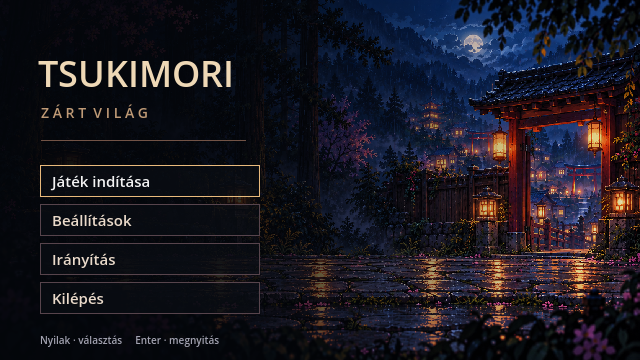
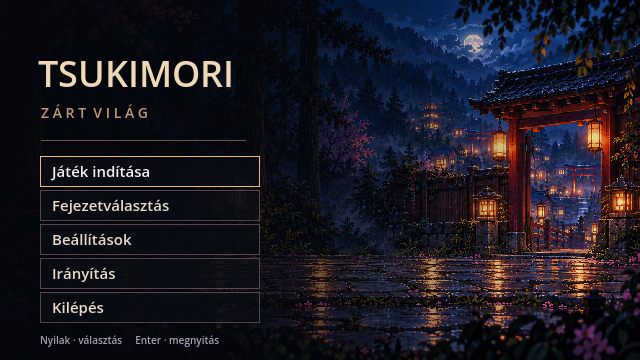
Add main-menu chapter selection for implemented review checkpoints

Changed region(s): [[0.0625, 0.4278, 0.4062, 0.9167], [0.375, 0.8556, 0.4062, 0.9167], [0.375, 0.4278, 0.4062, 0.4583]]

diff --git a/docs/CHAPTER_SELECT_REVIEW.md b/docs/CHAPTER_SELECT_REVIEW.md
@@ -1,0 +1,24 @@
+# Fejezetválasztás — 2026-10-04, REVIEW
+
+Tulajdonosi kérés: a további történeti fejlesztés előtt a tesztelést megkönnyítő fejezetválasztó a játék elején. Főmenü → Fejezetválasztás. Egér vagy fel/le + Enter; Esc/Vissza bezárja, a fókusz visszatér a főmenügombra. Megnyitás és bezárás nem változtatja a játékállapotot.
+
+## Belépési pontok
+
+| Rész | Indulás | Előzmény |
+| --- | --- | --- |
+| Nyitány | Fekete + eső, eredeti monológ | Tiszta új játék |
+| Falusi séta | Kapu, aktív játékoskontroll | opening_intro_seen, entered_tsukimori |
+| I. Miyako | Első személyes köszöntés a háznál | Hídon átkelés; met_miyako még nincs |
+| II. Első éjszaka | Akira VN-szobája, esti beszélgetés | Miyako külső/belső találkozás lezárva |
+| III. Első rendelési nap | Eredeti közös reggel és döntések | Első éjszaka lezárva, konzultációk még nincsenek |
+| IV. Hana | Éjszakai visszatolt füzet → reggeli előkészítés → Hana | Első nap lezárva; Hana személyes megismerése még nincs |
+
+Csak már megvalósított részek választhatók. Ez tesztbelépés, nem mentésbetöltés vagy route/unlock rendszer. A kiválasztott rész új állapotból indul. Előző döntések az eredeti, nulla pontot adó alternatívákat kapják: Miyako első kérdés/ask; reggel withdraw; rendelési hozzáállás clinical. Nincs önkényes kapcsolatpont vagy jövőbeli karakterismeret. Az aktuális fejezet döntései továbbra is a játékosra várnak. A karakterlap a beállított előzményeket mutatja; ez tesztelőzmény, nem valódi végigjátszás mentése.
+
+## Technika és ellenőrzés
+
+scripts/ui/chapter_catalog.gd tartalmazza a belépési pontokat, érvényességi ellenőrzést, előzményflaget és scene-indítást. GameState.chapter_start egyszeri kérés, a tényleges scene _ready elfogyasztja. Az új Játék indítása ugyanúgy tiszta nyitányt indít. Az intró kihagyása a közös, egyszeri handoff úton fut. Kettős indítás és az átmenet alatti visszalépés nem cseréli le a választást. Nincs új asset vagy LOCKED redesign.
+
+chapter_select_regression: mind a hat pont a valódi főmenüből, Enterrel és nyilakkal; visszalépés/fókusz; korábbi tesztállapot törlése; egyszeri kérés; megfelelő fázis/flag; első mondat megmaradása; szünet; ismeretlen fejezet elutasítása. main_menu_regression: eredeti normál új játék, beállítások és intró kihagyás. night_day_regression és hana_day_regression: normál történeti útvonalak és eredeti választások változatlanok.
+
+Képi review: review/chapter_selector_REVIEW.png, chapter_miyako_REVIEW.png, chapter_night_REVIEW.png, chapter_clinic_REVIEW.png, chapter_hana_REVIEW.png. Következő történeti blokk továbbra is Hana találkozása után a megírt késő délutáni Miyako-jelenet.

diff --git a/docs/DECISION_LOG.md b/docs/DECISION_LOG.md
@@ -100,6 +100,8 @@ Ha implementáció ütközik egy LOCKED döntéssel:
 Tulajdonosi kérésre a régi 3D prototípus az archive/legacy_3d alá került, az assetek és importbeállítások megőrzésével. A kreatív kánon és a pixel-art production irány változatlan. Az aktív játékból eltávolítottuk a használaton kívüli automatikus érkezési fázisokat; Miyako jelenlegi talaj-, ütközés- és feliratjavításai megmaradtak. Az aktuális működést a README és PROGRESS írja le; az eredeti állapotleírások az archívumban is megmaradtak.
 # Technikai folytatás — 2026-10-04, REVIEW
 
+Tulajdonosi kérés alapján tesztelési fejezetválasztó a főmenüben; kizárólag működő jelenetekhez, egyszeri belépési kéréssel és dokumentált előzményállapottal. LOCKED kreatív döntéseket nem módosít. [Belépési pontok](CHAPTER_SELECT_REVIEW.md).
+
 Tulajdonosi új vizuális kérés: Hana balra, Akira a beszélgetésekben, két eredeti névtelen páciens portréja, több Hana/Miyako képi reakció. Technikai staging és REVIEW cutoutok; LOCKED karakter-identitások, szöveg és döntések változatlanok. [Források és pontos promptok](DIALOGUE_PORTRAITS_REVIEW.md).
 
 Tulajdonosi kérés alapján karakterlapok/kapcsolati státusz, majd első éjszaka és rendelési nap. LOCKED dizájn/történeti döntést nem módosít. A III. fejezet két eredeti névtelen konzultációja technikai folytatásként szerepel; a Hana-első sorrend és Hana pontos vizsgálati szövege még tisztázandó. REVIEW környezetek, hiányzó fénykép-CG és páciens production assetek: [részletek](CHARACTERS_NIGHT_CLINIC_REVIEW.md). Inventory továbbra is későbbi feladat.

diff --git a/README.md b/README.md
@@ -10,6 +10,8 @@ A jelenleg futó játék egy high-detail pixel-art 2D/2.5D narratív prototípus
 
 A főmenü egérrel vagy nyilakkal és Enterrel kezelhető. Beállítások: hangerő és teljes képernyő; ezek a következő indításra is megmaradnak. Az Irányítás megnyitja a gombok leírását, a Kilépés bezárja a játékot. Esc visszalép az almenükből. Játékállás-mentés még nincs.
 
+Teszteléshez a Fejezetválasztás közvetlenül a nyitányhoz, falusi sétához, Miyako első találkozásához, első éjszakához, első rendelési naphoz vagy Hana fejezetéhez vezet. A kiválasztott rész új tesztállapotból indul, szükséges előzményekkel és az eredeti nulla pontos korábbi döntésekkel. [Belépési pontok és állapotkezelés](docs/CHAPTER_SELECT_REVIEW.md).
+
 WASD / nyilak: séta. Shift nyomva: futás. E: figyelés, továbbhaladás a helyszín kijáratánál, beszélgetés Miyakóval. Space / Enter: szöveg gyorsítása / tovább. Esc: szünetmenü (intróban kihagyás). Tab / jobb felső Menü gomb: szünet bármikor. F1: vezérlési segítség.
 
 A szünetmenüben folytatás, karakterlapok és kapcsolati státusz, hangerő, teljes képernyő, irányítás és főmenübe visszatérés található. A világ és a párbeszéd szünet alatt megáll. [Menü és futás REVIEW](docs/PAUSE_AND_RUN_REVIEW.md).

diff --git a/docs/PROGRESS.md b/docs/PROGRESS.md
@@ -4,6 +4,8 @@ Hana, Kuroe és Shion korai cameója működik REVIEW atlasszal, névtábla/dial
 
 Frissítve: 2026-10-04. Technikai REVIEW; a LOCKED kreatív döntések változatlanok.
 
+Főmenü → Fejezetválasztás: hat működő tesztbelépés (nyitány, falusi séta, Miyako, első éjszaka, első rendelési nap, Hana). Előzményeket beállít, múltbeli döntésekért pontot nem ad. Nem save/load vagy route rendszer. [Működés és ellenőrzés](CHAPTER_SELECT_REVIEW.md).
+
 Az első nap lezárása továbbvezet a következő reggelhez és Hana teljes első terápiás jelenetéhez. Két eredeti választás, négy tesztelt kombináció, változó arckifejezésű keret nélküli portré, megismerési flag és karakterlap. A külön klinikai kiegészítés és a késő délutáni folytatás még külön feladat. [Forrás és generation napló](HANA_FIRST_SESSION_REVIEW.md).
 
 Tulajdonosi arány-visszajelzés alapján az új szoba/rendelő VN-háttér lett, járó Akira nélkül. Gombok vagy fel/le + Enter indítják a megfigyeléseket és a nap állomásait. Az eredeti nappali- és külső járás megmaradt. [Megjelenítés és ellenőrzés](ROOM_CLINIC_VN_REVIEW.md).
